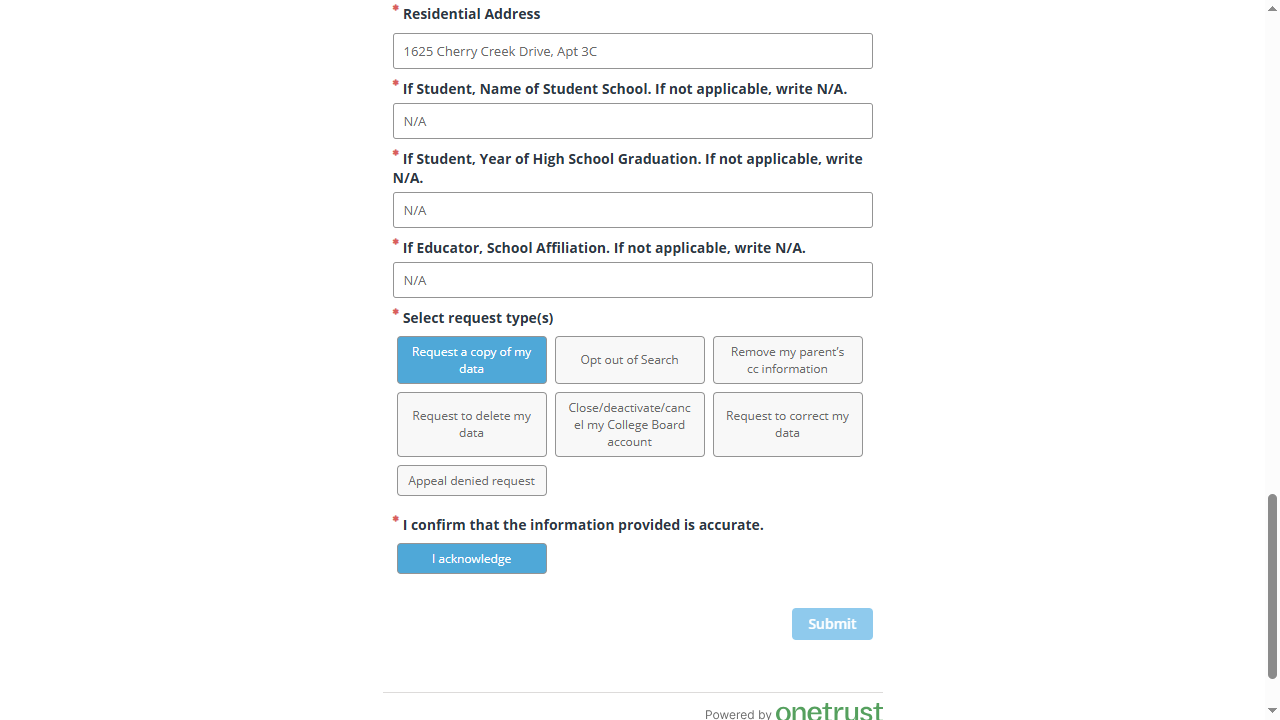
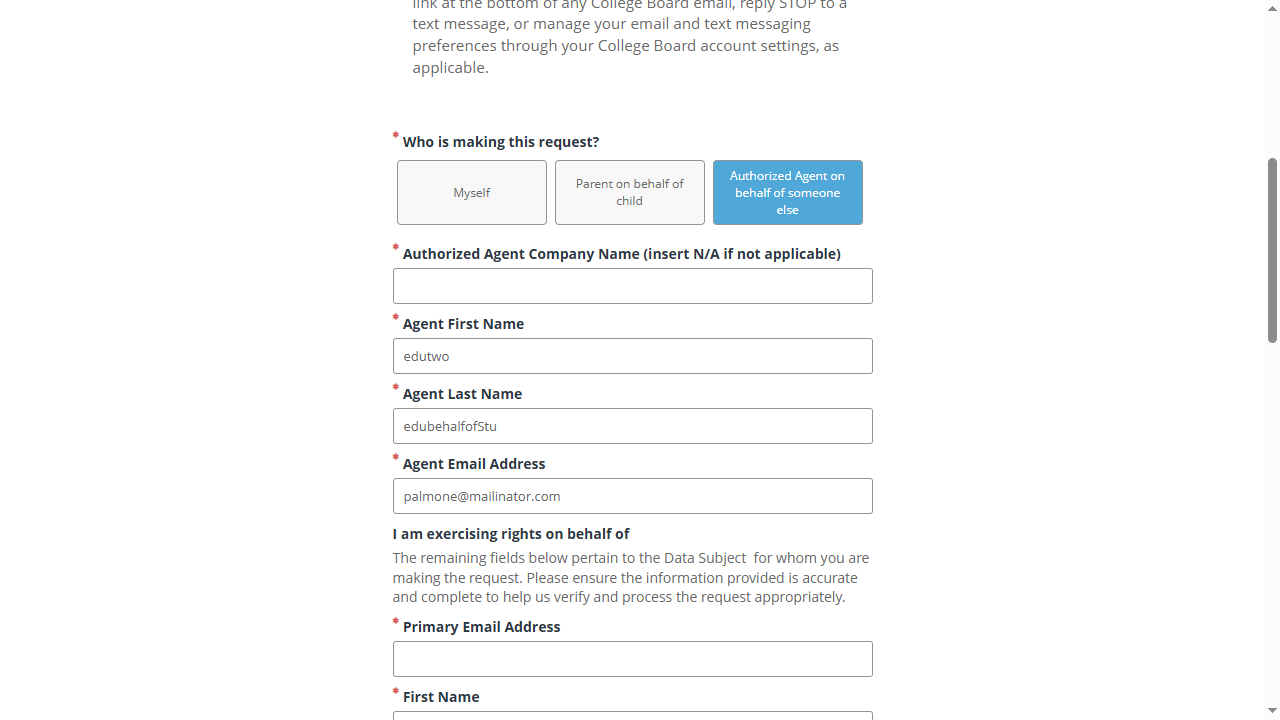
commit

diff --git a/Newfolder/educator_requesttypes_submission_MULTIPLE.py b/Newfolder/educator_requesttypes_submission_MULTIPLE.py
@@ -3,6 +3,7 @@
 🚨 IMPORTANT SETUP NOTE - EDUCATOR/AGENT REQUEST AUTOMATION:
 This script automates EDUCATOR/AGENT requests using Educatoronbehalfofstudent_form_data.xlsx file with the following fields:
 - Who is making this request: Authorized Agent on behalf of someone else
+- Authorized Agent Company Name (insert N/A if not applicable)
 - Agent First Name
 - Agent Last Name  
 - Agent Email Address
@@ -401,6 +402,20 @@ class TestPrivacyPortal:
         # Agent Company Name (NEW FIELD)
         print("🏢 Filling agent company name...")
         agent_company_selectors = [
+            # Look for fields with the exact form label "Authorized Agent Company Name (insert N/A if not applicable)"
+            "input[aria-label*='Authorized Agent Company Name (insert N/A if not applicable)']",
+            "input[placeholder*='Authorized Agent Company Name (insert N/A if not applicable)']",
+            "label:has-text('Authorized Agent Company Name (insert N/A if not applicable)') + input",
+            "label:has-text('Authorized Agent Company Name (insert N/A if not applicable)') ~ input",
+            "*:has-text('Authorized Agent Company Name (insert N/A if not applicable)') + input",
+            "*:has-text('Authorized Agent Company Name (insert N/A if not applicable)') ~ input",
+            # Partial matches for the field
+            "input[aria-label*='insert N/A if not applicable']",
+            "input[placeholder*='insert N/A if not applicable']",
+            "label:has-text('insert N/A if not applicable') + input",
+            "label:has-text('insert N/A if not applicable') ~ input",
+            "*:has-text('insert N/A if not applicable') + input",
+            "*:has-text('insert N/A if not applicable') ~ input",
             # Look for fields specifically labeled for agent company name
             "input[aria-label*='Agent Company Name']",
             "input[placeholder*='Agent Company Name']",
@@ -440,23 +455,42 @@ class TestPrivacyPortal:
         agent_company_filled = False
         company_name = str(self.form_data.get('Authorized Agent Company Name', 'N/A'))
         
-        # Only fill if company name is not "N/A" 
-        if company_name and company_name.strip().upper() != 'N/A':
-            for selector in agent_company_selectors:
-                try:
-                    if page.locator(selector).first.is_visible():
-                        page.fill(selector, company_name)
-                        print(f"✅ Agent company name filled: '{company_name}' with selector: {selector}")
-                        time.sleep(1)
-                        agent_company_filled = True
-                        break
-                except:
-                    continue
-            
-            if not agent_company_filled:
-                print(f"⚠ Agent company name field not found (value: '{company_name}')")
-        else:
-            print(f"ℹ Agent company name is 'N/A' - skipping field (value: '{company_name}')")
+        # Fill company name field - use "N/A" when Excel has "N/A", or use actual company name
+        print(f"🏢 Company name from Excel: '{company_name}'")
+        
+        # Always try to fill the field (whether it's "N/A" or a real company name)
+        for selector in agent_company_selectors:
+            try:
+                if page.locator(selector).first.is_visible():
+                    page.fill(selector, company_name)
+                    print(f"✅ Agent company name filled: '{company_name}' with selector: {selector}")
+                    time.sleep(1)
+                    agent_company_filled = True
+                    break
+            except:
+                continue
+        
+        if not agent_company_filled:
+            print(f"⚠ Agent company name field not found (value: '{company_name}')")
+            # Let's add some debugging to see what fields are actually available
+            print("🔍 DEBUG: Looking for any input fields that might be the company field...")
+            try:
+                # Get all visible input fields and check their labels/placeholders
+                all_inputs = page.locator("input[type='text']:visible").all()
+                for i, input_field in enumerate(all_inputs):
+                    try:
+                        aria_label = input_field.get_attribute('aria-label') or ''
+                        placeholder = input_field.get_attribute('placeholder') or ''
+                        field_id = input_field.get_attribute('id') or ''
+                        
+                        # Check if this might be a company-related field
+                        field_text = f"{aria_label} {placeholder} {field_id}".lower()
+                        if any(keyword in field_text for keyword in ['company', 'organization', 'agent', 'n/a', 'applicable']):
+                            print(f"  Potential company field {i+1}: aria-label='{aria_label}', placeholder='{placeholder}', id='{field_id}'")
+                    except:
+                        continue
+            except Exception as debug_error:
+                print(f"⚠ Debug error: {debug_error}")
         
         # STUDENT FIELDS: Fill student information (the person the agent is representing)
         print("👨🎓 Filling student information...")
@@ -500,8 +534,9 @@ class TestPrivacyPortal:
                 continue
             
         # Child Email Address (Email of Child/Data Subject)
+        print("📧 Filling child/student email address...")
         child_email_selectors = [
-            # Exact match from screenshot
+            # Exact match from form label variations
             "input[aria-label*='Email of Child (Data Subject)']",
             "input[placeholder*='Email of Child (Data Subject)']",
             "label:has-text('Email of Child (Data Subject)') + input",
@@ -515,10 +550,15 @@ class TestPrivacyPortal:
             "input[placeholder*='Child Email']",
             "input[aria-label*='Data Subject Email']",
             "input[placeholder*='Data Subject Email']",
+            "input[aria-label*='Student Email']",
+            "input[placeholder*='Student Email']",
             "label:has-text('Email of Child') + input",
             "label:has-text('Child Email') + input",
+            "label:has-text('Student Email') + input",
+            "label:has-text('Data Subject Email') + input",
             "*:has-text('Email of Child') + input",
             "*:has-text('Child Email') + input",
+            "*:has-text('Student Email') + input",
             "*:has-text('Data Subject') + input[type='email']",
             # Generic selectors that might contain child/data subject context
             "input[name*='child'][type='email']",
@@ -527,10 +567,17 @@ class TestPrivacyPortal:
             "input[id*='child'][id*='email']",
             "input[id*='subject'][id*='email']",
             "input[id*='student'][id*='email']",
-            "input[data-testid*='child'][data-testid*='email']"
+            "input[data-testid*='child'][data-testid*='email']",
+            "input[data-testid*='student'][data-testid*='email']",
+            # More generic email selectors (we'll validate context)
+            "input[type='email']:not([aria-label*='Agent']):not([placeholder*='Agent']):not([name*='agent'])",
+            "input[type='email']:not([aria-label*='Parent']):not([placeholder*='Parent']):not([name*='parent'])"
         ]
         
         child_email_filled = False
+        child_email_value = str(self.form_data.get('Email of Child (Data Subject)', 'childstudent@mailinator.com'))
+        print(f"📧 Child email from Excel: '{child_email_value}'")
+        
         for selector in child_email_selectors:
             try:
                 if page.locator(selector).first.is_visible():
@@ -552,26 +599,45 @@ class TestPrivacyPortal:
                     except:
                         pass
                     
-                    # Check if this is definitely a child/student field and not parent
+                    # Check if this is definitely a child/student field and not parent/agent
                     field_label_lower = field_label.lower()
                     is_child_field = any(keyword in field_label_lower for keyword in ['child', 'student', 'data subject', 'subject'])
+                    is_agent_field = any(keyword in field_label_lower for keyword in ['agent', 'educator', 'teacher'])
                     is_parent_field = any(keyword in field_label_lower for keyword in ['parent', 'guardian', 'primary email'])
                     
-                    if is_child_field or not is_parent_field:
-                        page.fill(selector, str(self.form_data.get('Email of Child (Data Subject)', 'childstudent@mailinator.com')))
-                        print(f"✅ Child email filled: '{self.form_data.get('Email of Child (Data Subject)', 'childstudent@mailinator.com')}' with selector: {selector}")
+                    # Skip agent and parent fields, prefer child fields
+                    if is_agent_field or is_parent_field:
+                        print(f"⚠ Skipping email field (appears to be for agent/parent): {selector} - {field_label}")
+                        continue
+                    elif is_child_field or not (is_agent_field or is_parent_field):
+                        page.fill(selector, child_email_value)
+                        print(f"✅ Child email filled: '{child_email_value}' with selector: {selector}")
                         print(f"   Field context: {field_label}")
                         time.sleep(1)
                         child_email_filled = True
                         break
-                    else:
-                        print(f"⚠ Skipping email field (appears to be for parent): {selector}")
-                        continue
             except:
                 continue
         
         if not child_email_filled:
             print("⚠ Child email field not found")
+            # Let's add some debugging to see what email fields are actually available
+            print("🔍 DEBUG: Looking for any email fields that might be the child email field...")
+            try:
+                # Get all visible email input fields and check their labels/placeholders
+                all_email_inputs = page.locator("input[type='email']:visible").all()
+                for i, input_field in enumerate(all_email_inputs):
+                    try:
+                        aria_label = input_field.get_attribute('aria-label') or ''
+                        placeholder = input_field.get_attribute('placeholder') or ''
+                        field_id = input_field.get_attribute('id') or ''
+                        field_name = input_field.get_attribute('name') or ''
+                        
+                        print(f"  Email field {i+1}: aria-label='{aria_label}', placeholder='{placeholder}', id='{field_id}', name='{field_name}'")
+                    except:
+                        continue
+            except Exception as debug_error:
+                print(f"⚠ Debug error: {debug_error}")
             
         # Phone Number - enhanced selectors
         phone_selectors = [

diff --git a/Newfolder/test_child_email.py b/Newfolder/test_child_email.py
@@ -1,0 +1,109 @@
+#!/usr/bin/env python3
+"""
+Quick test script to focus on child email field identification
+"""
+import pandas as pd
+import os
+import time
+from playwright.sync_api import sync_playwright, Page
+
+def test_child_email_field():
+    """Test just the child email field identification"""
+    
+    # Load Excel data
+    excel_file = "dsr/data/Educatoronbehalfofstudent_form_data.xlsx"
+    df = pd.read_excel(excel_file, engine='openpyxl', na_filter=False, keep_default_na=False, dtype=str)
+    first_record = df.iloc[0].to_dict()
+    
+    print(f"🔍 Testing child email field for first record:")
+    print(f"   Child Email from Excel: '{first_record.get('Email of Child (Data Subject)', 'N/A')}'")
+    print(f"   Student Name: {first_record.get('First Name', 'N/A')} {first_record.get('Last Name', 'N/A')}")
+    
+    url = "https://privacyportaluat.onetrust.com/webform/b99e91a7-a15e-402d-913d-a09fe56fcd54/c31c1bfa-b0a7-4a7a-9fc0-22c44fa094d0"
+    
+    with sync_playwright() as p:
+        browser = p.chromium.launch(headless=False)
+        page = browser.new_page()
+        
+        try:
+            # Navigate to form
+            print(f"\n🌐 Navigating to form...")
+            page.goto(url)
+            page.wait_for_load_state("networkidle")
+            time.sleep(3)
+            
+            # First click the agent button
+            print(f"\n🔘 Clicking 'Authorized Agent on behalf of someone else' button...")
+            agent_selectors = [
+                "span:has-text('Authorized Agent on behalf of someone else')",
+                "button:has-text('Authorized Agent on behalf of someone else')",
+                "label:has-text('Authorized Agent on behalf of someone else')"
+            ]
+            
+            for selector in agent_selectors:
+                try:
+                    if page.locator(selector).first.is_visible():
+                        page.click(selector)
+                        print(f"✅ Clicked agent button with: {selector}")
+                        time.sleep(3)
+                        break
+                except:
+                    continue
+            
+            # Now look for all email fields
+            print(f"\n📧 Looking for all email fields on the form...")
+            try:
+                all_email_inputs = page.locator("input[type='email']:visible").all()
+                print(f"Found {len(all_email_inputs)} email fields:")
+                
+                for i, input_field in enumerate(all_email_inputs):
+                    try:
+                        aria_label = input_field.get_attribute('aria-label') or ''
+                        placeholder = input_field.get_attribute('placeholder') or ''
+                        field_id = input_field.get_attribute('id') or ''
+                        field_name = input_field.get_attribute('name') or ''
+                        
+                        print(f"  Email field {i+1}:")
+                        print(f"    aria-label: '{aria_label}'")
+                        print(f"    placeholder: '{placeholder}'")  
+                        print(f"    id: '{field_id}'")
+                        print(f"    name: '{field_name}'")
+                        print()
+                        
+                        # Try to identify if this is the child email field
+                        field_text = f"{aria_label} {placeholder} {field_id} {field_name}".lower()
+                        is_child_field = any(keyword in field_text for keyword in ['child', 'student', 'data subject', 'subject'])
+                        is_agent_field = any(keyword in field_text for keyword in ['agent', 'educator', 'teacher'])
+                        
+                        if is_child_field:
+                            print(f"    🎯 This appears to be a CHILD email field!")
+                            # Try to fill it
+                            try:
+                                child_email = first_record.get('Email of Child (Data Subject)', 'test@mailinator.com')
+                                input_field.fill(child_email)
+                                print(f"    ✅ Successfully filled with: {child_email}")
+                            except Exception as fill_error:
+                                print(f"    ❌ Could not fill: {fill_error}")
+                        elif is_agent_field:
+                            print(f"    🚫 This appears to be an AGENT email field - skipping")
+                        else:
+                            print(f"    ❓ Field type unclear")
+                        
+                    except Exception as field_error:
+                        print(f"  Error examining field {i+1}: {field_error}")
+                        
+            except Exception as e:
+                print(f"❌ Error finding email fields: {e}")
+            
+            # Take a screenshot to see the current state
+            page.screenshot(path="dsr/screenshots/child_email_debug.png")
+            print(f"\n📸 Screenshot saved: dsr/screenshots/child_email_debug.png")
+            
+            print(f"\n⏸ Pausing for 10 seconds to review...")
+            time.sleep(10)
+            
+        finally:
+            browser.close()
+
+if __name__ == "__main__":
+    test_child_email_field()

diff --git a/Newfolder/check_educator_excel_updated.py b/Newfolder/check_educator_excel_updated.py
@@ -31,6 +31,7 @@ def examine_updated_excel():
                 print(f"     Agent First Name: '{row.get('Agent First Name', 'N/A')}'")
                 print(f"     Agent Last Name: '{row.get('Agent Last Name', 'N/A')}'")
                 print(f"     Agent Email Address: '{row.get('Agent Email Address', 'N/A')}'")
+                print(f"     Email of Child (Data Subject): '{row.get('Email of Child (Data Subject)', 'N/A')}'")
                 print(f"     Student First Name: '{row.get('First Name', 'N/A')}'")
                 print(f"     Student Last Name: '{row.get('Last Name', 'N/A')}'")
                 print(f"     Request Type: '{row.get('Request_type', 'N/A')}'")
